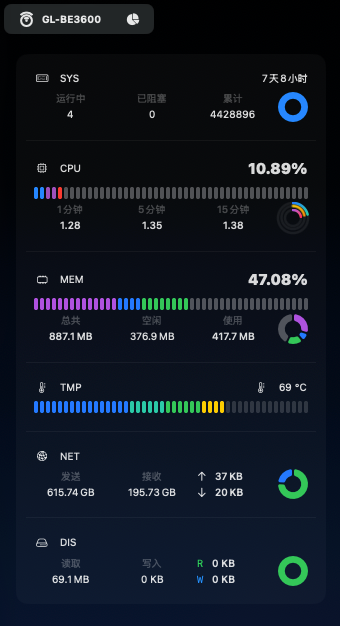
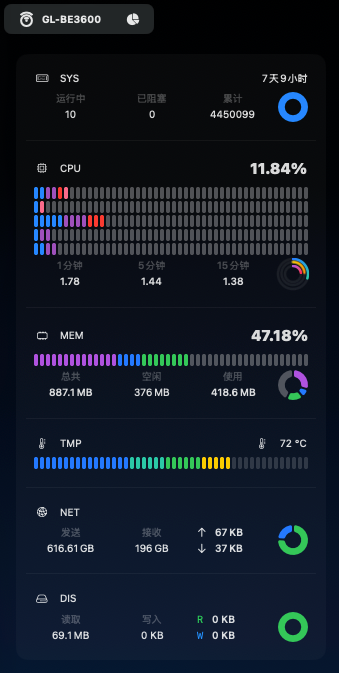
demo

diff --git a/README.md b/README.md
@@ -8,4 +8,4 @@ SwiftUI ChartUI
 .product(name: "ChartUI", package: "ChartUI"),
 ```
 # Demo
-<img width="340" height="626" alt="demo" src="https://github.com/user-attachments/assets/88219e61-a6f8-4dd7-af6c-2c8661504b0f" />
+![Demo](demo/demo.png)
